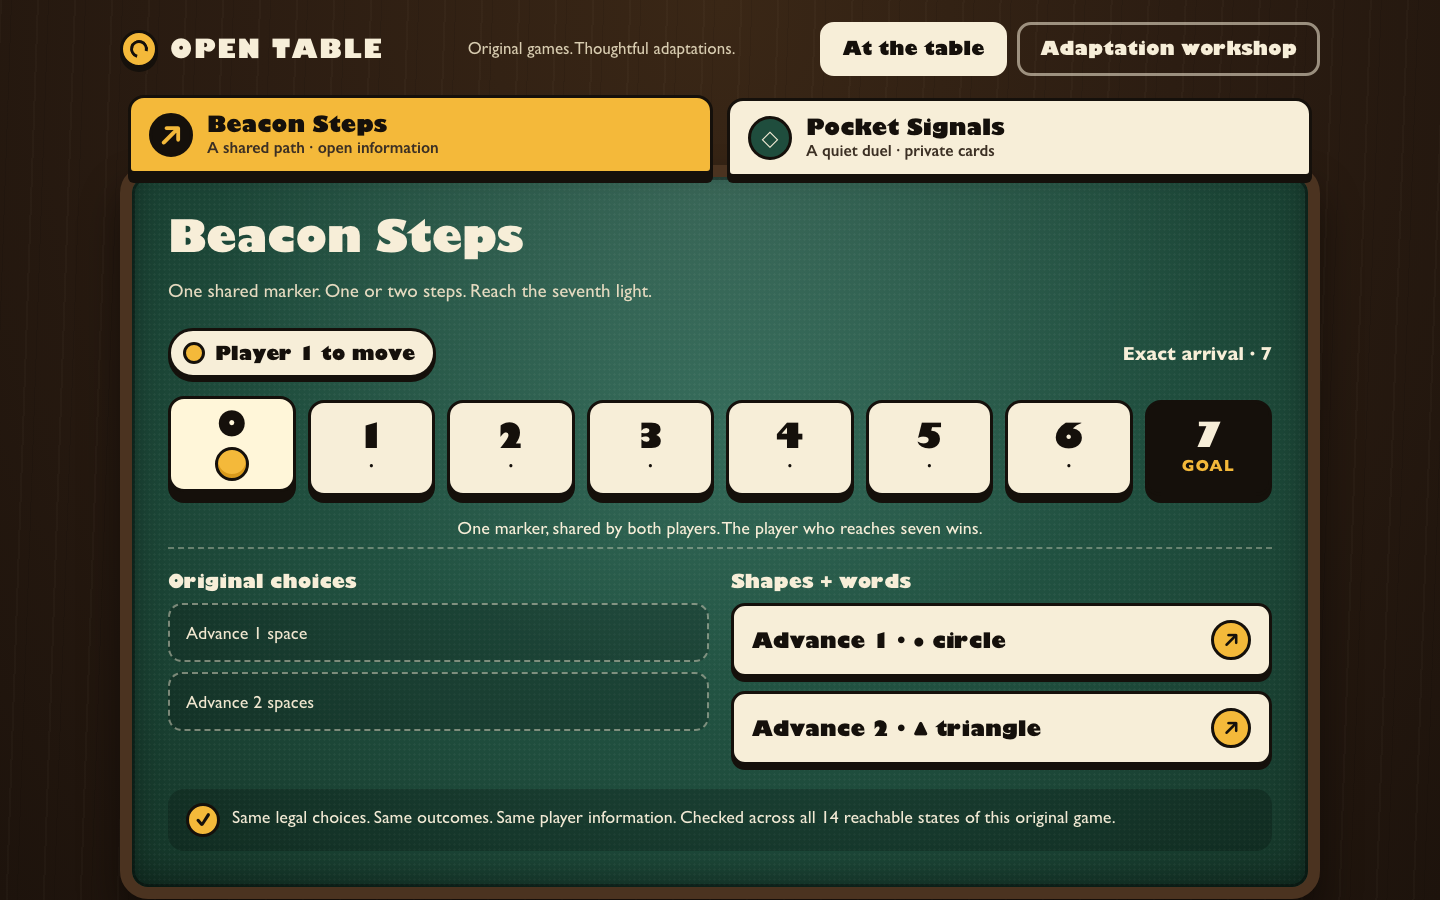
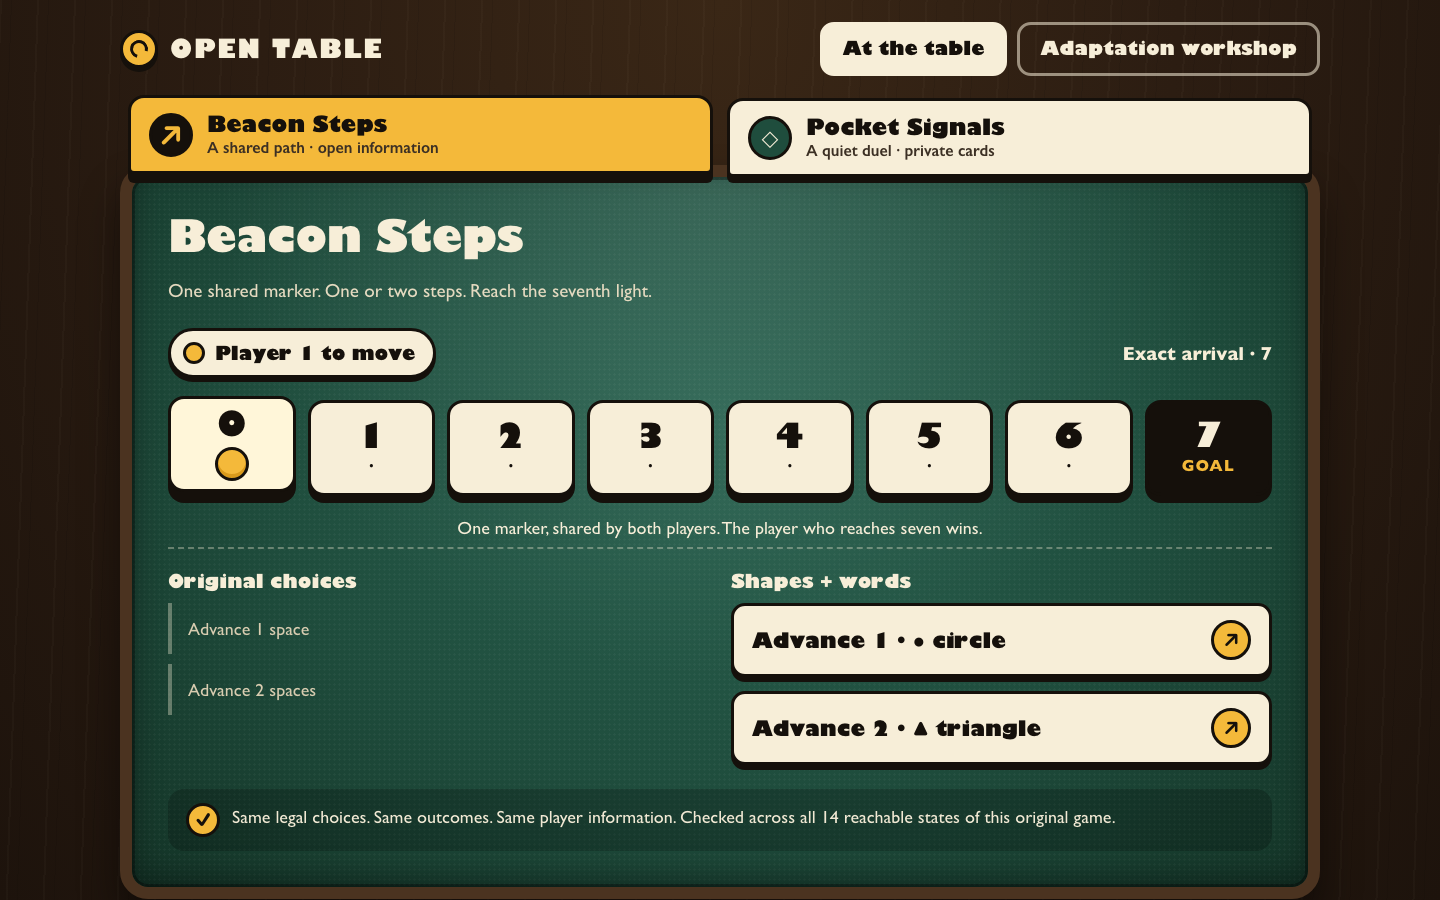
Polish the table layout and add the demo draft
Quieter original-choice list, a two-column lower rail that stacks on small screens, and single-line saved-match actions. Adds the draft demo script and step frames for Beacon Steps.

Changed region(s): [[0.3125, 0.0311, 0.5, 0.0622], [0.125, 0.7467, 0.2188, 0.8089], [0.125, 0.6844, 0.2188, 0.7156]]

diff --git a/styles.css b/styles.css
@@ -58,7 +58,7 @@ button.negative:active:not(:disabled){transform:none}
 .brand{display:flex;align-items:center;gap:12px;font-weight:800;font-size:26px;letter-spacing:.06em;color:var(--cream)}
 .brand-mark{position:relative;width:38px;height:38px;border-radius:50%;background:var(--amber);border:3px solid var(--ink);box-shadow:0 4px 0 var(--ink);display:inline-block}
 .brand-mark:after{content:'';position:absolute;inset:7px;border-radius:50%;border:3px solid var(--ink);border-bottom-color:transparent;transform:rotate(-30deg)}
-.top-note{color:#d8ccb0;font-size:17px;flex:1 1 260px;text-align:center}
+.top-note{display:none}
 .tabs{display:flex;gap:10px;flex-wrap:wrap}
 .tabs button{background:transparent;color:var(--cream);border:3px solid rgba(247,238,216,.55);box-shadow:none;min-height:52px}
 .tabs button:hover:not(:disabled){background:rgba(255,255,255,.08);border-color:var(--cream)}
@@ -133,7 +133,7 @@ button.negative:active:not(:disabled){transform:none}
 .comparison>section{min-width:0}
 .column-title{font-size:19px;font-weight:800;color:#e5dac0;text-transform:none;letter-spacing:0;margin-bottom:10px}
 .original-actions{list-style:none;padding:0;margin:0;display:grid;gap:10px}
-.original-actions li{background:rgba(0,0,0,.2);border:2px dashed rgba(247,238,216,.45);border-radius:14px;padding:14px 16px;font-size:18px;color:#efe6cf}
+.original-actions li{padding:12px 0 12px 16px;border-left:4px solid rgba(247,238,216,.35);font-size:18px;color:#d8ccb0}
 .choice-buttons{display:grid;gap:14px}
 .choice-buttons button{display:flex;align-items:center;justify-content:space-between;gap:12px;min-height:68px;text-align:left;font-size:21px;padding:14px 18px}
 .action-arrow{width:40px;height:40px;border-radius:50%;background:var(--amber);border:3px solid var(--ink);display:grid;place-items:center;font-size:20px;flex:0 0 auto;line-height:1;color:var(--ink)}
@@ -173,7 +173,7 @@ button.one-key-current:not(:disabled):active{box-shadow:0 0 0 12px var(--ink),0 
 @media(forced-colors:active){button.one-key-current{outline:4px solid Highlight;box-shadow:none}}
 
 /* Lower rail: the ways to play sit at the table's edge as physical cards. */
-.sidebar{display:grid;grid-template-columns:repeat(auto-fit,minmax(260px,1fr));gap:22px;align-items:start;margin-top:4px}
+.sidebar{display:grid;grid-template-columns:repeat(2,minmax(0,1fr));gap:22px;align-items:start;margin-top:4px}
 .pack-panel{grid-column:1/-1}
 .sidebar>section{background:var(--cream);color:var(--ink);border:3px solid var(--ink);border-radius:22px;padding:24px 24px 26px;box-shadow:0 9px 0 var(--ink)}
 .sidebar>section h3,.sidebar>section h4,.sidebar>section p,.sidebar>section li,.sidebar>section label,.sidebar>section summary{color:var(--ink)}
@@ -197,7 +197,8 @@ button.one-key-current:not(:disabled):active{box-shadow:0 0 0 12px var(--ink),0 
 .pack-panel .status{margin-top:12px}
 
 .saved-match-tools{display:flex;flex-wrap:wrap;gap:12px;margin:12px 0}
-.saved-match-tools button{flex:1 1 160px}
+.saved-match-tools button{flex:1 1 auto;white-space:nowrap;padding-left:14px;padding-right:14px}
+.saved-match-panel .eyebrow{font-size:13px;letter-spacing:.05em;white-space:normal}
 .saved-match-summary{font-weight:800;font-size:20px;background:var(--cream-deep);border-radius:12px;padding:10px 14px;border:2px solid var(--ink)}
 .aside-note{font-size:16px;color:#4a3f31}
 .pin{font-family:ui-monospace,Menlo,Consolas,monospace;font-size:14px;word-break:break-all;background:var(--cream-deep);border:2px solid var(--ink);border-radius:10px;padding:8px 10px;color:var(--ink)}
@@ -256,6 +257,7 @@ summary:focus-visible{outline:5px solid var(--ring);outline-offset:4px}
 /* Small screens: stack the table, tiles and rail; keep 48px+ targets and a 16px gutter. */
 @media(max-width:1000px){
  .workspace{gap:18px}
+ .sidebar{grid-template-columns:minmax(0,1fr)}
  .workshop-grid{grid-template-columns:minmax(0,1fr)}
  .comparison{grid-template-columns:minmax(0,1fr)}
 }

diff --git a/demo/SCRIPT.md b/demo/SCRIPT.md
@@ -1,0 +1,21 @@
+# Demo script (draft, not rendered)
+
+App: Open Table, Beacon Steps, shapes + words pack, desktop 1440x900.
+
+| Step | Narration | On screen |
+|---|---|---|
+| 1 | Open Table is a set of small tabletop games. Two people can play one on a shared screen, and each game can be shown in more than one way. | Opening screen: game picker and the Beacon Steps table, marker on space 0, Player 1 to move. |
+| 2 | This game is called Beacon Steps. One marker sits on a path of eight spaces. The players take turns moving it one or two spaces. | Path of spaces 0 to 7, goal 7, both choices listed. |
+| 3 | Player one moves first. Player one moves the marker two spaces. | Player 1 presses "Advance 2 · triangle"; marker moves to space 2. |
+| 4 | The path updates at once. Now it is player two's turn. | Marker on 2, Player 2 to move. |
+| 5 | Player two moves one space. | Player 2 presses "Advance 1 · circle"; marker moves to space 3. |
+| 6 | Player one moves two spaces again, to five. | Player 1 presses "Advance 2 · triangle"; marker on 5. |
+| 7 | Player two moves two spaces, and lands exactly on seven. | Player 2 presses "Advance 2 · triangle"; marker on 7, game complete. |
+| 8 | Seven is the goal. The game ends, and the screen says who won. | "Game complete" with the result panel and Play again. |
+| 9 | Each way of showing the choices is checked against the original game. The check covers every state the game can reach. | "Checked across all 14 reachable states" note. |
+| 10 | Open Table is for people who want to play together, however they take their turns. Thanks for watching. | Page top, closing line. |
+
+Notes for the lead:
+- Step 7 is the winning move. The result panel shows "Player 2 takes it." and the "Play again" button.
+- Step 9 uses a note that appears on screen; the wording "14 reachable states" is the count the app computes.
+- Narration does not mention one key, saved matches, or Pocket Signals; those need a longer script.
